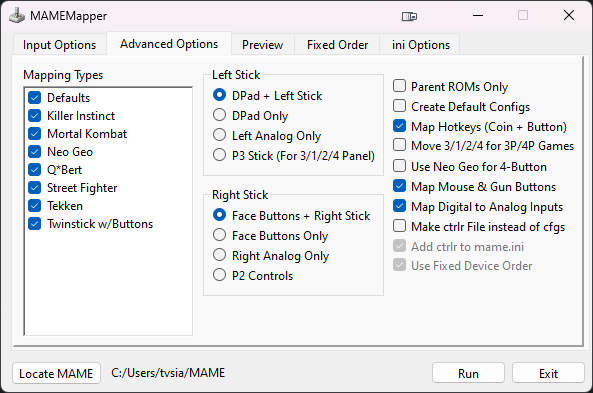
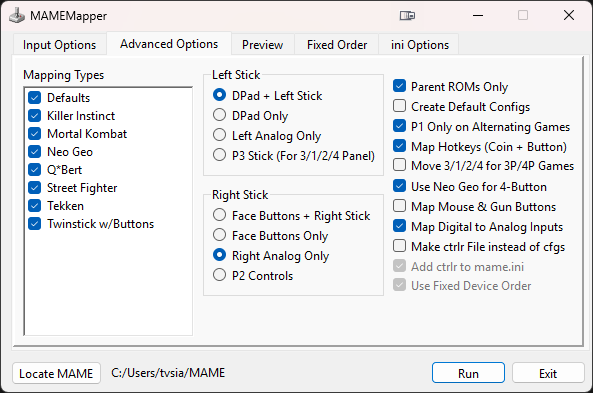
Version/Docs update
Update to v0.06, update docs for new additions

diff --git a/MAMEMapper.py b/MAMEMapper.py
@@ -2710,7 +2710,7 @@ if __name__ == '__main__':
 	global fixedDevices
 	global controlEmoji
 
-	version = "0.04"
+	version = "0.06"
 	printDebugMessages = False
 	scriptDir = os.path.dirname(os.path.abspath(sys.argv[0]))
 

diff --git a/README.md b/README.md
@@ -1,5 +1,6 @@
-# MAMEMapper
-WIP readme file for v0.05
+
+# MAMEMapper
+WIP readme file for v0.06
 
 ## What is it?
 
@@ -36,7 +37,7 @@ Then when you want to run MAMEMapper, use `.\venv\Scripts\activate.bat` to activ
 **Input Options:**
 
 **Physical Controller:** A controller that matches what you're using. This will be used to set the layout for each mapping as well as the button labels on the Preview tab. The default controllers can be used in most cases, but you may need to load a custom config in the case of arcade panels that don't use the default mapping or fightsticks with non-standard layouts. Default controllers are: *(WIP: Add labeled images with default button order)*
- - **XInput (Xbox Style):** standard XBox 360/One/[Series](https://www.xbox.com/en-US/accessories/controllers/xbox-wireless-controller). If you are using a program like DS4Windows to use your DS4/DualSense/Switch controller as XInput, select this one to get the proper button layout.
+ - **XInput (Xbox Style):** standard XBox 360/One/[Series](https://www.xbox.com/en-US/accessories/controllers/xbox-wireless-controller). If you are using a program like DS4Windows to use your DS4/DualSense/Switch controller as XInput, select this one to get the proper button layout. This will also auto-map Pedal 1 & 2 to RT and LT, respectively. Other profiles currently will not, this is the only one that supports analog triggers.
  - **DInput (Sony Style):** DualShock/[DualSense](https://www.playstation.com/en-us/accessories/dualsense-wireless-controller/). Sony controllers like to send both a button and axis when the analog triggers are pressed, this will use the button as input. In addition, it maps MAME button 11 to the touchpad click, though none of the game-specific mappings will use it.
  - **DInput (Switch Style, Bluetooth):** Nintendo Classic/[Pro](https://www.nintendo.com/us/store/products/pro-controller/)/Dual Joycon layout. This was generated with a Switch Pro controller connected via Bluetooth, as the USB connection only seems to work properly in Steam with Switch controller support enabled.
  - **6-Button (8BitDo M30 XInput):** Uses the layout for the [8BitDo M30 controller](https://download.8bitdo.com/Manual/Controller/M30/M30_Manual.pdf?20220513) when it is in XInput mode. Assumes a controller will have 6 face buttons + 2 shoulder buttons. Use this as a base if you're mapping other 6-button controllers with a set of shoulder buttons (ie a Saturn controller). The DPad is treated as a left analog stick.
@@ -98,6 +99,7 @@ Then when you want to run MAMEMapper, use `.\venv\Scripts\activate.bat` to activ
 
 **Parent ROMs Only:** Will only create configurations for parent ROMs, not clones. In most cases this is fine and the result will be cleaner, there may be some games where the clones have a different number of players or other changes that could affect their mappings.
 **Create Default Configs:** If turned on, configs will be created for games that have no special mappings, they only use the default configuration. Generally not needed.
+**P1 Only on Alternating Games:** Games that alternate players typically have one set of controls on an upright machine, and 2 sets on cocktail table machines. If on, this will not map the P2 controls. It's recommended to leave this on unless you're setting up a cocktail table machine.
 **Map Hotkeys (Coin + Button):** This will map hotkeys to use the Coin button plus another control to activate certain functions (modeled after Retropie/Batocera/Etc.). Note that buttons are based on their position on the controller itself, not other mappings that may apply. Examples will use the XBox names:
 
  - Back + Menu: Exit
@@ -116,7 +118,7 @@ Then when you want to run MAMEMapper, use `.\venv\Scripts\activate.bat` to activ
  **Move 3/1/2/4 for 3P/4P games:** If using a P3 - P1 - P2 - P4 control panel, this will swap controls for any game with 3 or 4 players to be in P1 - P2 - P3 - P4 order.
  **Use Neo Geo for 4-Button:** If Neo Geo is selected, this will apply the layout to any 4-button game that's not using an existing mapping (ie Tekken). Intended for 6 button or offset button control panels.
  **Map Mouse & Gun Buttons:** If selected, it will add Mouse and Gun button inputs to each button. In most cases, this should prevent lightgun or trackball games from needing to be remapped if using a mouse or gun. If you are exclusively using a keyboard or joystick controller, it is best to leave this unchecked.
- **Map Digital to Analog inputs:** By default, MAME will map the analog stick and mouse to various analog inputs (dial, trackball, lightgun, etc). This will also map the DPad to the "Increment/Decrement" option for each control. So for example, a trackball game could be controlled using a controller with no stick. The speed will be fixed on the movement as opposed to an analog control, so it's not ideal in most cases.
+ **Map Digital to Analog inputs:** By default, MAME will map the analog stick and mouse to various analog inputs (dial, trackball, lightgun, etc). This will also map whatever you have as the main stick to the "Increment/Decrement" option for each control. So for example, a trackball game could be controlled using a controller with no stick. The speed will be fixed on the movement as opposed to an analog control, so it's not ideal in most cases.
  **Make ctrlr file instead of cfgs:** Instead of creating separate cfg files for each game, this will create a single ctrlr file in the ctrlr folder. This can reduce file clutter as well as making it easier to swap controllers. It will also allow you to remap controls for specific games inside MAME without being overwritten if you run MAMEMapper again.
  **Add ctrlr to mame.ini:** Will add the created ctrlr file to the existing mame.ini so it loads automatically.
  **Use Fixed Device Order:** Allows you to use the Fixed Order tab to map Joystick, Lightgun, and Mouse controls in a specific order. Good to keep specific inputs on arcade cabinets etc.
@@ -173,101 +175,107 @@ The required files to create gamelist.json (the ones used for the current build 
  - **A MAME xml file.** The one used by default is generated by the Arcade64 fork, which leaves out consoles and other non-arcade machines. This prevents custom configs for those from being overwritten.
  - **controls.json.** Can be downloaded from [here](https://github.com/yo1dog/controls-dat-json), or a tool can be used to convert controls.dat to json yourself. The original controls.dat file has not been updated in a while, so many games will be missing control labels in the preview.
  - **csv files for each mapping.** You should have a .json in the /mappings folder, and a .csv in the /datasources folder with matching filenames - ie sf.json and sf.csv. The csv file should be a "Detailed (csv)" export from the [Arcade Database](http://adb.arcadeitalia.net/lista_mame.php). This can be pieced together from multiple exports, just make sure it includes all the games the mapping should apply to, and only those games.
+ - **alternating & concurrent mame xml files.** These can also be generated on the Arcade Database, in mame.xml format. One file should contain all games with alternating players, the other all games with concurrent players. This is used to tag games that ONLY have alternating players - some games have both due to different dip switch settings.
  - **Additional csv files (Optional):** If there are any machines missing from the xml, they can be added by importing them from a csv, in the same format as the mapping csvs. Any games not in the xml that are in the mapping csvs will be automatically added during the import process.
 
+![tools.py window](./images/tools.png)
+
 To create the file, run python tools.py. From there:
-1. **Load mame.xml File:** Select the file in mame.xml format to import.
-2. **Add Games & Clones from CSV:** Only if you have an additional game CSV file.
-3. **Add Controls from JSON:** Imports the controls.json file from /datasources
-4. **Add Mappings to Game List:** Scans the /mappings folder for jsons, and /datasources for matching csvs.
-5. **Merge Data Files:** Combines the temporary /data/controldb.json and /data/gamedb.json into the gamedata.json file.
+1. **Dump mame.xml from MAME:** (Optional) Dump the XML from any MAME .exe file if you don't have a pre-filtered one.
+2. **Load mame.xml File:** Select the file in mame.xml format to import and it will load games, clones, and game information.
+3. **Add Games & Clones from CSV:** (Optional) Adds games that may be missing from the xml for whatever reason. Do not store this file in /datasources, or it will cause problems with importing mappings.
+4. **Add Alternating XMLs:** First select the mame.xml containing *alternating* player games, then the one with *concurrent* player games. This will tag the imported games as needed.
+5. **Add Controls from JSON:** Imports the controls.json file.
+6. **Add Mappings to Game List:** Scans the /mappings folder for controller jsons, and /datasources for matching csvs. 
+7. **Dump ports from MAME:** Select the mame.exe you would like to use, and let it run. This is a long *(many hours)* process, it has to start every game that has been imported to dump the ports, so you also need a full romset - or at least enough for whatever games have been imported (ie arcade-only). It will save progress as it goes, so if you need to cancel, it will pick up where it left off. I recommend using a standard mame.exe for this, others like arcade64 may pop up a dialog box on error and pause the process until it is dismissed.
+8. **Validate Complete Data:** (Optional but Recommended) This will check to make sure nothing important is missing. It will also copy missing port data and control label data between clones and parents - this may not always be accurate depending on the machines. The console will show the total number of repaired and unrepairable entries. Missing ports will leave that control out of the database when merged, missing labels are mostly cosmetic, but will also affect the "Jump on 2" button swapping function.
+9. **Merge Data Files:** Combines gamedb.json, controldb.json, and portdb.json from the /data folder into the final gamedata.json file.
 
 **Mapping File Format:**
 The mapping files are all json-formatted data, containing button swaps for any control layouts that it applies to. One example is:
 
     {
-    	"longname":"Street Fighter",
-    	"shortname":"sf",
-    	"x360": {
-    		"BUTTON1":"BUTTON3",
-    		"BUTTON2":"BUTTON4",
-    		"BUTTON3":"BUTTON5",
-    		"BUTTON4":"BUTTON1",
-    		"BUTTON5":"BUTTON2"
-    	},
-    	"sony": {
-    		"BUTTON1":"BUTTON3",
-    		"BUTTON2":"BUTTON4",
-    		"BUTTON3":"BUTTON5",
-    		"BUTTON4":"BUTTON1",
-    		"BUTTON5":"BUTTON2"
-    	},
-    	"switch": {
-    		"BUTTON1":"BUTTON3",
-    		"BUTTON2":"BUTTON4",
-    		"BUTTON3":"BUTTON5",
-    		"BUTTON4":"BUTTON1",
-    		"BUTTON5":"BUTTON2"
-    	},
-    	"stick": {
-    		"BUTTON1":"BUTTON5",
-    		"BUTTON2":"BUTTON6",
-    		"BUTTON3":"BUTTON7",
-    		"BUTTON4":"BUTTON1",
-    		"BUTTON5":"BUTTON2",
-    		"BUTTON6":"BUTTON3"
-    	},
-    	"ipac4": {
-    		"BUTTON1":"BUTTON5",
-    		"BUTTON2":"BUTTON6",
-    		"BUTTON3":"BUTTON7",
-    		"BUTTON4":"BUTTON1",
-    		"BUTTON5":"BUTTON2",
-    		"BUTTON6":"BUTTON3"
-    	},
-    	"arcade6": {
-    		"BUTTON1":"BUTTON4",
-    		"BUTTON2":"BUTTON5",
-    		"BUTTON3":"BUTTON6",
-    		"BUTTON4":"BUTTON1",
-    		"BUTTON5":"BUTTON2",
-    		"BUTTON6":"BUTTON3"
-    	},
-    	"offset": {
-    		"BUTTON1":"BUTTON4",
-    		"BUTTON2":"BUTTON5",
-    		"BUTTON3":"BUTTON6",
-    		"BUTTON4":"BUTTON1",
-    		"BUTTON5":"BUTTON2",
-    		"BUTTON6":"BUTTON3"
-    	},
-    	"m30": {
-    		"BUTTON1":"BUTTON4",
-    		"BUTTON2":"BUTTON5",
-    		"BUTTON3":"BUTTON6",
-    		"BUTTON4":"BUTTON1",
-    		"BUTTON5":"BUTTON2",
-    		"BUTTON6":"BUTTON3"
-    	},
-    	"retro6": {
-    		"BUTTON1":"BUTTON4",
-    		"BUTTON2":"BUTTON5",
-    		"BUTTON3":"BUTTON6",
-    		"BUTTON4":"BUTTON1",
-    		"BUTTON5":"BUTTON2",
-    		"BUTTON6":"BUTTON3"
-    	}
+      "longname":"Street Fighter",
+      "shortname":"sf",
+      "x360": {
+        "BUTTON1":"BUTTON3",
+        "BUTTON2":"BUTTON4",
+        "BUTTON3":"BUTTON5",
+        "BUTTON4":"BUTTON1",
+        "BUTTON5":"BUTTON2"
+      },
+      "sony": {
+        "BUTTON1":"BUTTON3",
+        "BUTTON2":"BUTTON4",
+        "BUTTON3":"BUTTON5",
+        "BUTTON4":"BUTTON1",
+        "BUTTON5":"BUTTON2"
+      },
+      "switch": {
+        "BUTTON1":"BUTTON3",
+        "BUTTON2":"BUTTON4",
+        "BUTTON3":"BUTTON5",
+        "BUTTON4":"BUTTON1",
+        "BUTTON5":"BUTTON2"
+      },
+      "stick": {
+        "BUTTON1":"BUTTON5",
+        "BUTTON2":"BUTTON6",
+        "BUTTON3":"BUTTON7",
+        "BUTTON4":"BUTTON1",
+        "BUTTON5":"BUTTON2",
+        "BUTTON6":"BUTTON3"
+      },
+      "ipac4": {
+        "BUTTON1":"BUTTON5",
+        "BUTTON2":"BUTTON6",
+        "BUTTON3":"BUTTON7",
+        "BUTTON4":"BUTTON1",
+        "BUTTON5":"BUTTON2",
+        "BUTTON6":"BUTTON3"
+      },
+      "arcade6": {
+        "BUTTON1":"BUTTON4",
+        "BUTTON2":"BUTTON5",
+        "BUTTON3":"BUTTON6",
+        "BUTTON4":"BUTTON1",
+        "BUTTON5":"BUTTON2",
+        "BUTTON6":"BUTTON3"
+      },
+      "offset": {
+        "BUTTON1":"BUTTON4",
+        "BUTTON2":"BUTTON5",
+        "BUTTON3":"BUTTON6",
+        "BUTTON4":"BUTTON1",
+        "BUTTON5":"BUTTON2",
+        "BUTTON6":"BUTTON3"
+      },
+      "m30": {
+        "BUTTON1":"BUTTON4",
+        "BUTTON2":"BUTTON5",
+        "BUTTON3":"BUTTON6",
+        "BUTTON4":"BUTTON1",
+        "BUTTON5":"BUTTON2",
+        "BUTTON6":"BUTTON3"
+      },
+      "retro6": {
+        "BUTTON1":"BUTTON4",
+        "BUTTON2":"BUTTON5",
+        "BUTTON3":"BUTTON6",
+        "BUTTON4":"BUTTON1",
+        "BUTTON5":"BUTTON2",
+        "BUTTON6":"BUTTON3"
+      }
     }
 
-Each block is for a specific controller layout using it's short name (the filename, for default layouts, the one it was based on for custom controllers). Each pair of buttons is a swap for one of MAME's mappings - so for example `"BUTTON1":"BUTTON4"` would move MAME's Button 1 to the controller's Button 4 (as defined in the controller file). Each swap is processed independently, so order does not matter.
+Each block is for a specific controller layout using it's short name (the filename for default layouts, the one it was based on for custom controllers). Each pair of buttons is a swap for one of MAME's mappings - so for example `"BUTTON1":"BUTTON4"` would move MAME's Button 1 to the controller's Button 4 (as defined in the controller file). Each swap is processed independently, so order does not matter.
 It's also possible to define a mapping that only applies in SNES or NES mode. This is currently only used to apply the SNES layout to gamepad-like controllers when there is no other mapping used, but could be used for any mapping. The format would be:
 
     "x360-SNES": {
-    		"BUTTON1":"BUTTON3",
-    		"BUTTON2":"BUTTON1",
-    		"BUTTON3":"BUTTON2"
-    	}
+        "BUTTON1":"BUTTON3",
+        "BUTTON2":"BUTTON1",
+        "BUTTON3":"BUTTON2"
+      }
 Replace the SNES with NES to apply to that instead.
 
 > Written with [StackEdit](https://stackedit.io/).
-
